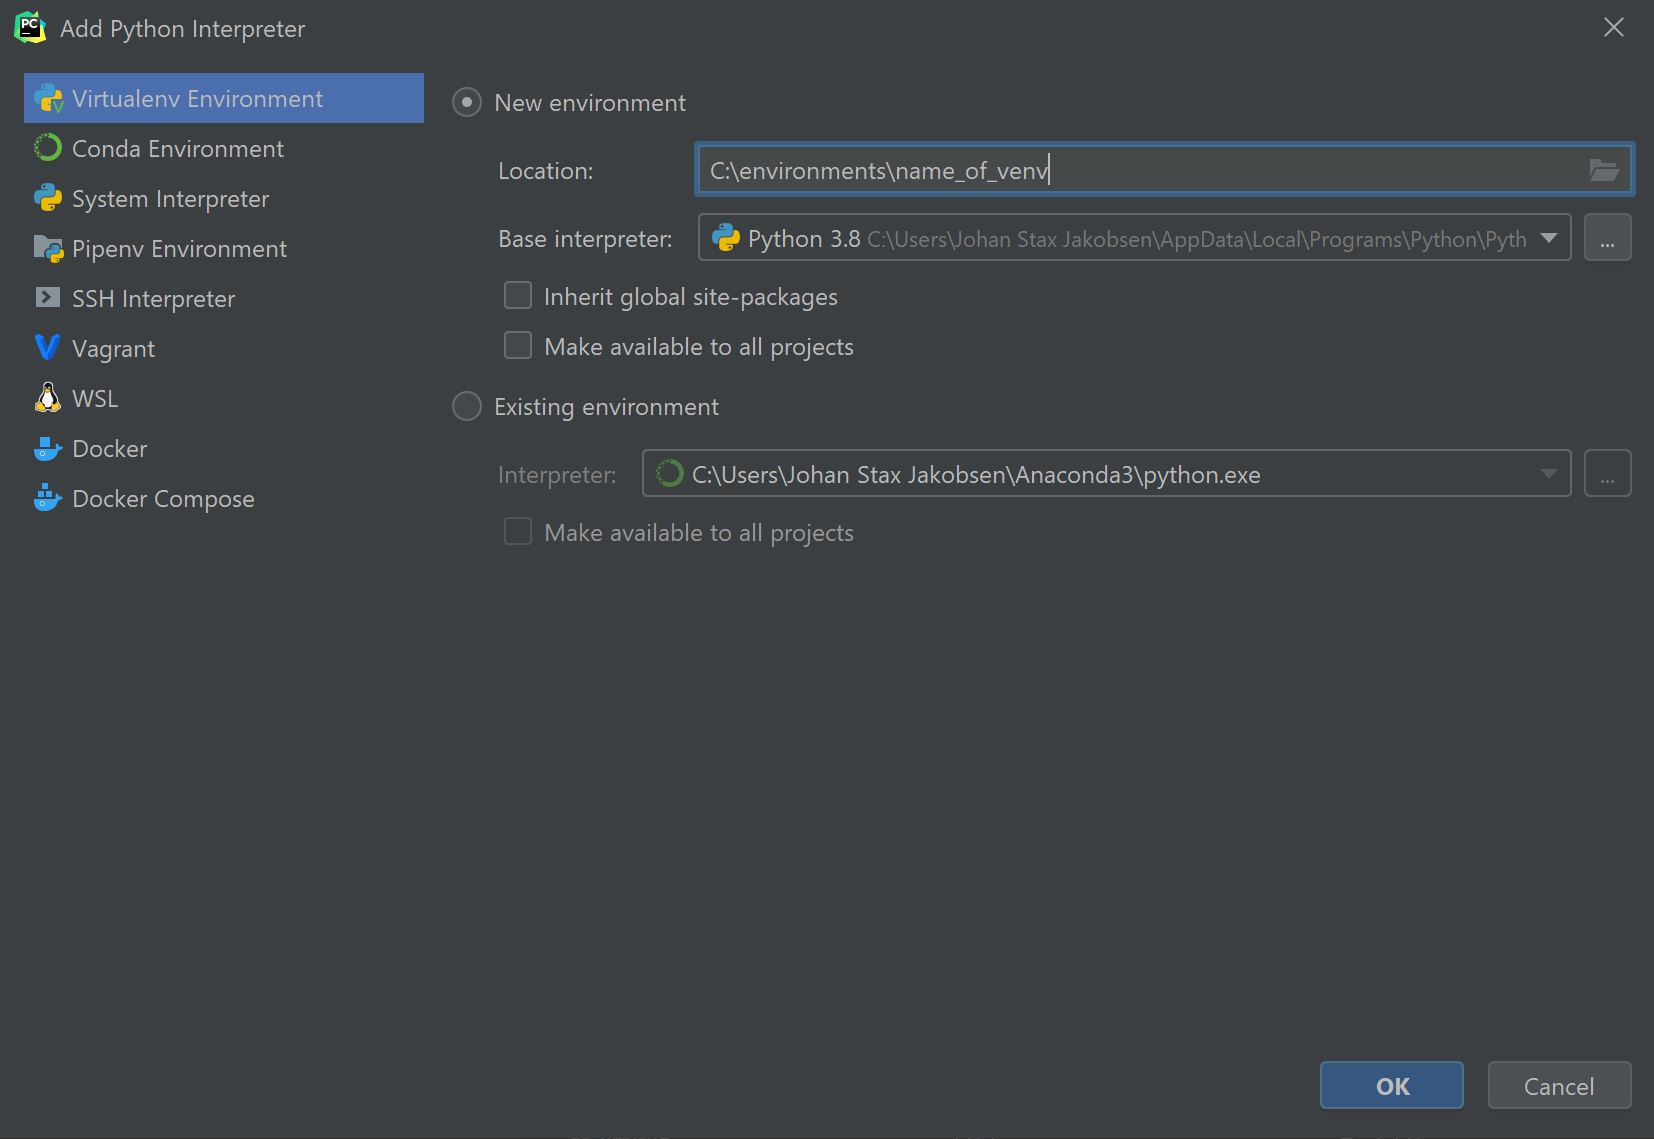
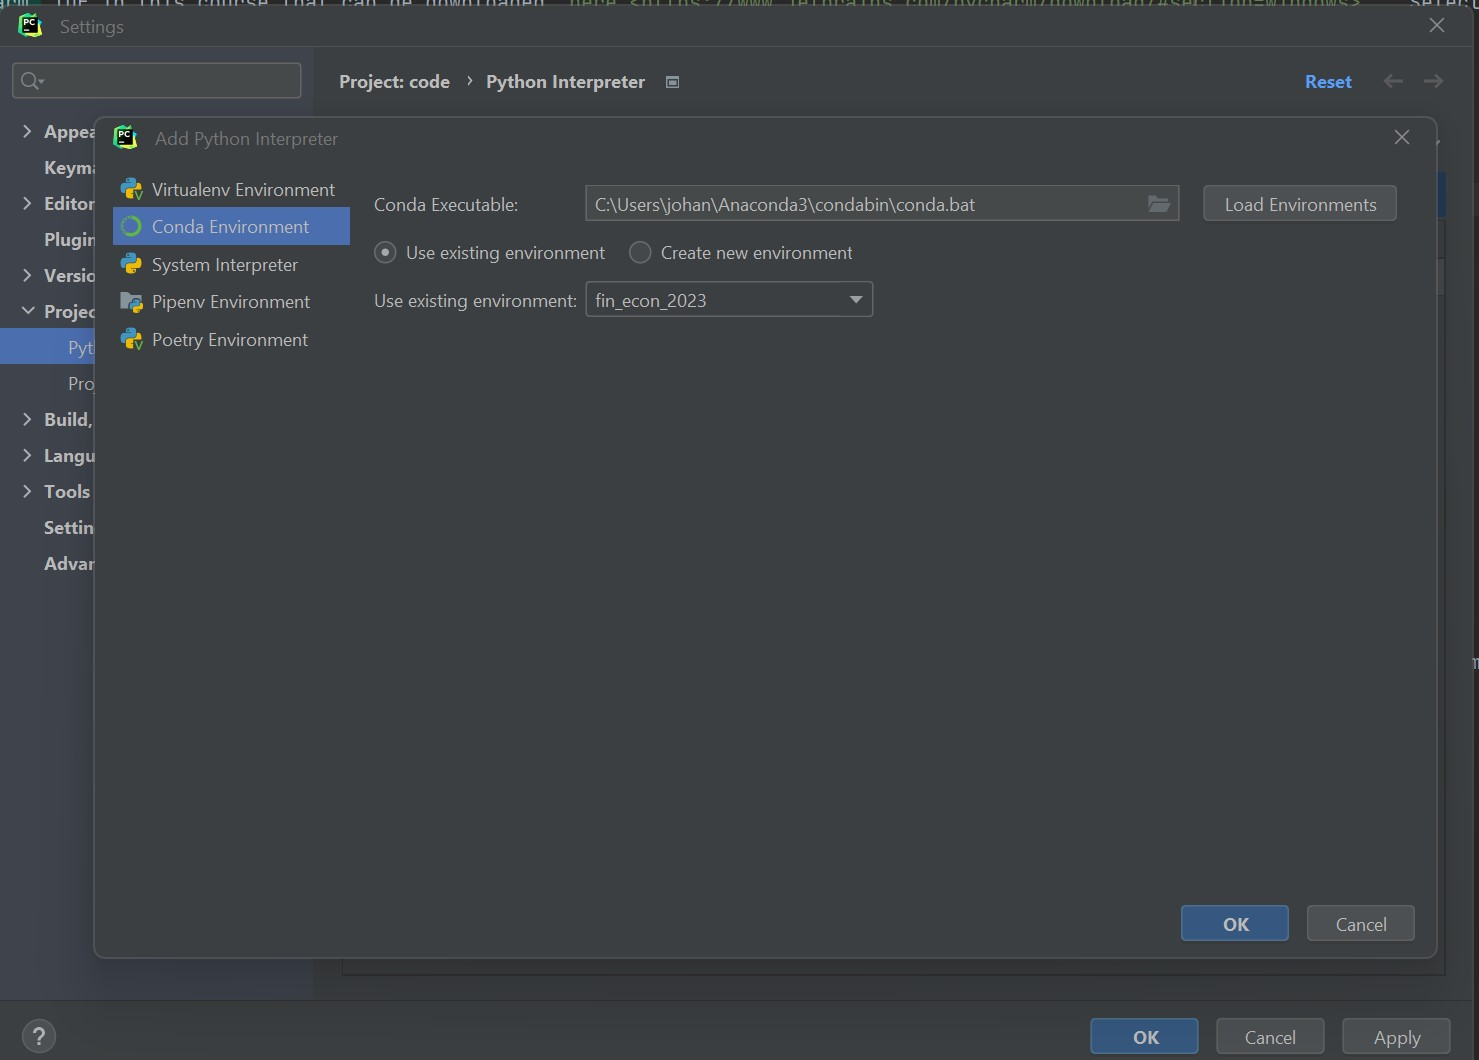
Working on docs 2023

diff --git a/docscr/source/getting_started/index.rst b/docscr/source/getting_started/index.rst
@@ -5,38 +5,123 @@ This note describes to get started with the course *Python for the Financial Eco
 
 Most of the relevant course material can be found in the `github repository <https://github.com/staxmetrics/python_for_the_financial_economist>`_.
 
-There are several ways of starting working with the course material and coding in Python. Below, three different ways described.
+There are several ways of starting working with the course material and coding in Python. I will use the `Anaconda distribution`, but feel free to do something else if you
+are used to something else.
 
 Anaconda installation
 ---------------------
 
 A simple way of getting started is to install `Anaconda <https://www.anaconda.com/>`_.
 
+An installation guide can be found `here <https://docs.anaconda.com/free/anaconda/install/index.html>`_.
+
 After the installation, you will have access to the `Anaconda Navigator` and `Anaconda Prompt` from which you have access to
 `jupyter notebooks` or `jupyter lab` which will use predominately in the course.
 
 
-Development environment
------------------------
+Anaconda environment
+--------------------
+The Anaconda distribution comes with a `base` environment which comes with over 250 packages automatically installed and
+a large number of additional packages that can be individually installed (see `here <https://docs.anaconda.com/free/anaconda/packages/install-packages/>`_ for more information).
 
-The most advanced setup is to download `PyCharm` and interact directly with the course materiale using `git`. This approach
-will be suitable when developing own code libraries.
+In many cases, we would be able to work directly with the `base` environment, but this may lead to issues with different versions of Python packages, e.g. we
+need two different versions of a Python package for two different projects. The recommended approach is to create a new `conda` environment for each project (the course in this case).
 
-Python
-^^^^^^
+We will create a new `conda` environment that contains the python packages used in the course. A guide can be found
+`here <https://docs.anaconda.com/free/navigator/tutorials/manage-environments/>`_.
 
-Navigate to `python download <https://www.python.org/downloads/>`_ and download and install relevant Python release. I have installed `Python 3.11.4`.
+YML file with environment specification
+^^^^^^^^^^^^^^^^^^^^^^^^^^^^^^^^^^^^^^^
+
+The root of the `github repository <https://github.com/staxmetrics/python_for_the_financial_economist>`_ contains the yml file
+`environment.yml` which can be imported directly into `Anaconda Navigator` to create a new environment.
+
+
+Jupyter notebooks
+-----------------
+
+`Jupyter <https://jupyter.org/>`_ is a browser-based way of interacting with Python and is especially useful when working
+and interacting with data and want to visualize and do calculations on the fly. It is generally not suited for developing
+bigger applications.
+
+We will be using Jupyter notebooks extensively during the course. All course material is presented in the form of notebooks.
+
+Will will be able to launch `Jupyter` directly from the `Anaconda Navigator` by pushing the launch button at the Jupyter notebook icon
+(remember to select the correct environment).
+
+Another method to open a Jupyter notebook is to use the `Anaconda Prompt`. It should looks something like this:
+
+.. image:: anaconda_prompt.jpg
+    :scale: 70 %
+    :align: center
+
+`(base)` indicates that the base environment is activated. We can activate the relevant environment with
+
+.. code-block:: console
+
+    conda activate fin_econ_2023
+
+After we have navigated to the desired folder, e.g.
+
+.. code-block:: console
+
+    cd C:\code\python_for_the_financial_economist
+
+We can launch Jupyter with
+
+.. code-block:: console
+
+    jupyter notebook
+
+If you run the command from the root of `python_for_the_financial_economist`, you should see something like
+
+.. image:: jupyter_1.jpg
+    :scale: 70 %
+    :align: center
+
+Using IDEs
+----------
+We will primarily use `jupyter notebooks` for coding and analysis (one should be able to complete the course using only notebooks),
+but sometimes we need to utilize an IDE (integrated development environment) to write code.This will increase the productivity
+when writing e.g. code libraries. Some of the most used IDEs integrate easily with Anaconda
+(see `here <https://docs.anaconda.com/free/anaconda/ide-tutorials/>`_).
+
 
 PyCharm
 ^^^^^^^
 
-We will use the `PyCharm` IDE in this course that can de downloaded `here <https://www.jetbrains.com/pycharm/download/#section=windows>`_. Select the `professional` version.
+I will use the `PyCharm` IDE in this course that can de downloaded `here <https://www.jetbrains.com/pycharm/download/#section=windows>`_. Select the `professional` version.
 
 A free student license can be obtained `here <https://www.jetbrains.com/community/education/#students>`_.
 
 The license can be registered by selecting `Help > Register` in the toolbar when opening `PyCharm`
 (see `here <https://www.jetbrains.com/help/pycharm/register.html>`_).
 
+Feel free to use alternatives such as `Spyder` or `VS code`, but this will not be supported.
+
+Configuration of environment
+""""""""""""""""""""""""""""
+
+After you have opened the project, then we need to configure the virtual environment. Go to `File > Settings > Project: Python for ...` and
+select `Python interpreter`. Press the symbol in the red circle (see below) and select `Add`
+
+.. image:: virt_env_1.jpg
+    :scale: 70 %
+    :align: center
+
+
+Select the already created conda environment. Press `OK`.
+
+.. image:: virt_env_2.jpg
+    :scale: 60 %
+    :align: center
+
+
+When selecting the terminal you should be able to see that you are working with the conda environment, e.g.
+
+.. image:: virt_env_3.jpg
+    :scale: 50 %
+    :align: center
 
 Change some settings
 """"""""""""""""""""
@@ -47,20 +132,35 @@ I will be using the `numpy` docstring format. Change it in `File > Settings > To
     :scale: 70 %
     :align: center
 
-Git and git bash
-^^^^^^^^^^^^^^^^
 
-Navigate to `git download <https://git-scm.com/downloads>`_ and download and install the newest release.
 
-Github repository
------------------
+Getting access to the course material
+-------------------------------------
 
-Most of the relevant course material can be found in the `github repository <https://github.com/staxmetrics/python_for_the_financial_economist>`_.
+The easiest way to obtain the course material is simply to download a zip folder from `github repository <https://github.com/staxmetrics/python_for_the_financial_economist>`_.
+
+.. image:: download_zip.jpg
+    :scale: 70 %
+    :align: center
+
+The problem with this approach is that you need to download the course material every time the course material is updated.
+
+
+Using git to interact with Github
+^^^^^^^^^^^^^^^^^^^^^^^^^^^^^^^^^
+
+Git enables us to interact directly with Github. Navigate to `git download <https://git-scm.com/downloads>`_ and download and install the newest release.
+
+
+Cloning the github repository
+^^^^^^^^^^^^^^^^^^^^^^^^^^^^^
+
+As mentioned, most of the relevant course material can be found in the `github repository <https://github.com/staxmetrics/python_for_the_financial_economist>`_.
 
 To clone the github repository (the master branch), open Git Bash and navigate to the folder where you want the local branch.
 I use the folder `C:\\code` for repositories.
 
-In Git Bash type
+Open Git Bash and type
 
 .. code-block::
 
@@ -75,45 +175,12 @@ Now you will have a local version of the github repository on your computer!
 After you have cloned the github repository, you can `right click` on the folder and choose `Open Folder As PyCharm Project`.
 If this not work, then you can open a specific project from PyCharm.
 
-Configuration of virtual environment (optional)
------------------------------------------------
+Pulling newest update to local repository
+^^^^^^^^^^^^^^^^^^^^^^^^^^^^^^^^^^^^^^^^^
 
-It is possible to use the Python system interpreter.
+I will continuously add new material to the github repository. To pull the newest version, you need to download it to your computer.
 
-However, it is recommended to be working with different `virtual environments <https://packaging.python.org/guides/installing-using-pip-and-virtual-environments/#creating-a-virtual-environment>`_
-for different projects. This allows us to have control over which specific packages and versions of these packages that we are using.
-
-After you have opened the project, then we need to configure the virtual environment. Go to `File > Settings > Project: Python for ...` and
-select `Python interpreter`. Press the symbol in the red circle (see below) and select `Add`
-
-.. image:: virt_env_1.jpg
-    :scale: 70 %
-    :align: center
-
-
-Select the folder where you want the virtual environment and the name you want to use. I have the folder `C:\\environments` for virtual environments.
-You also need to select the location of python installation. Press `OK`.
-
-.. image:: virt_env_2.jpg
-    :scale: 60 %
-    :align: center
-
-
-When selecting the terminal you should be able to see that you are working with your particular virtual environment, e.g.
-
-.. image:: virt_env_3.jpg
-    :scale: 50 %
-    :align: center
-
-Install relevant packages
-^^^^^^^^^^^^^^^^^^^^^^^^^
-
-The `requirements.txt` file contains the majority of the python packages needed during the course. You can install all of them using (in the terminal)
-
-.. code-block:: console
-
-    pip install -r requirements.txt
-
+This can be done directly from PyCharm by navigating to VCS->Git->Pull (on a Windows machine). Alternatively, one could do it using git bash.
 
 Folder structure
 ----------------
@@ -135,28 +202,6 @@ The folder structure is presented below.
     └── requirements.txt
 
 
-Jupyter Notebooks
------------------
-
-`Jupyter <https://jupyter.org/>`_ is a browser-based way of interacting with Python and is especially useful when working
-and interacting with data and want to visualize and do calculations on the fly. It is generally not suited for developing
-bigger applications.
-
-We will be using Jupyter notebooks extensively during the course.
-
-We can open Jupyter notebooks using the `cmd prompt` or the terminal in PyCharm by navigating to the relevant folder and
-applying the command
-
-.. code-block:: console
-
-    jupyter notebook
-
-If you run the command from the root of `python_for_the_financial_economist`, you should see something like
-
-.. image:: jupyter_1.jpg
-    :scale: 70 %
-    :align: center
-
 Access virtual environment in Jupyter notebook
 ^^^^^^^^^^^^^^^^^^^^^^^^^^^^^^^^^^^^^^^^^^^^^^
 
@@ -169,19 +214,16 @@ To be able to access the virtual environment from a Jupyter notebook, we need ru
 See e.g. `this blog <https://janakiev.com/blog/jupyter-virtual-envs/>`_ for further details.
 
 
-Pulling newest update to local repository
------------------------------------------
-
-I will continuously add new material to the github repository. To pull the newest version, you need to download it to your computer.
-This can be done directly from PyCharm by navigating to VCS->Git->Pull (on a Windows machine).
 
 Working with your own code and notebooks
 ----------------------------------------
 
-It should be noted that if you just start working on the master branch in the repository, then you will likely get `merge conflicts`
-when trying to pull changes from the github (remote) repository.
-
 There are several possibilities to work with your own code including
+
+A folder with code and notebooks
+^^^^^^^^^^^^^^^^^^^^^^^^^^^^^^^^
+
+The simplest approach will be to simple have a folder somewhere on your computer with notebooks and scripts.
 
 New branch in the repository
 ^^^^^^^^^^^^^^^^^^^^^^^^^^^^
@@ -193,8 +235,3 @@ New repository
 ^^^^^^^^^^^^^^
 
 You can create your own repository.
-
-A folder with code and notebooks
-^^^^^^^^^^^^^^^^^^^^^^^^^^^^^^^^
-
-The simplest approach will be to simple have a folder somewhere on your computer with notebooks and scripts.
